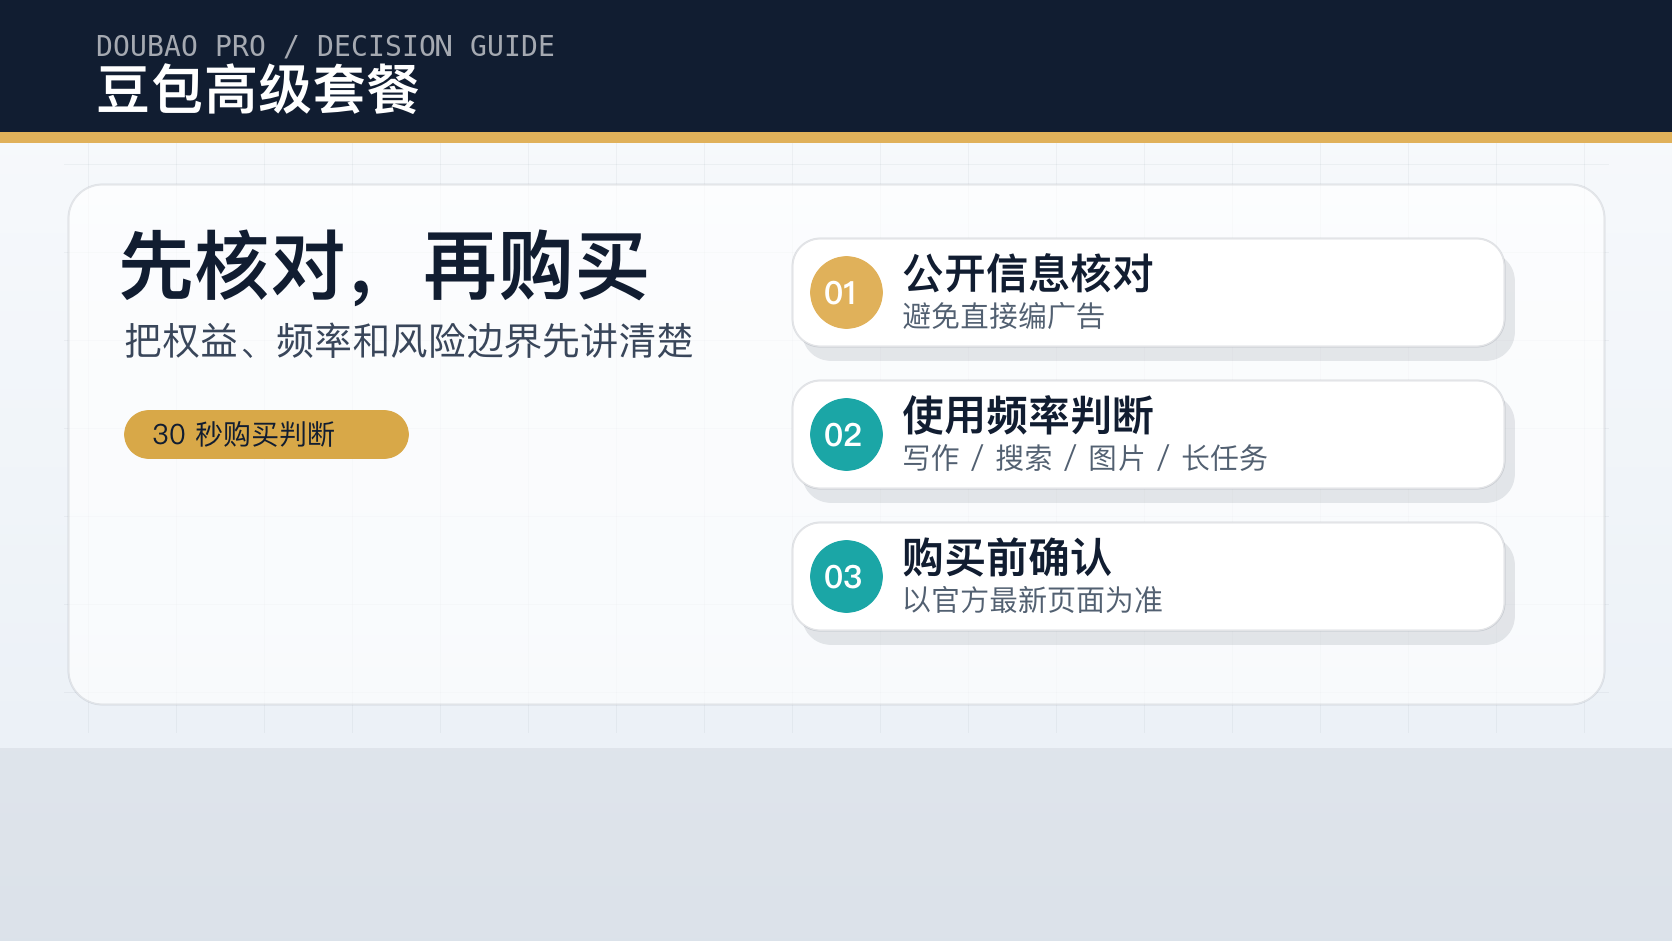
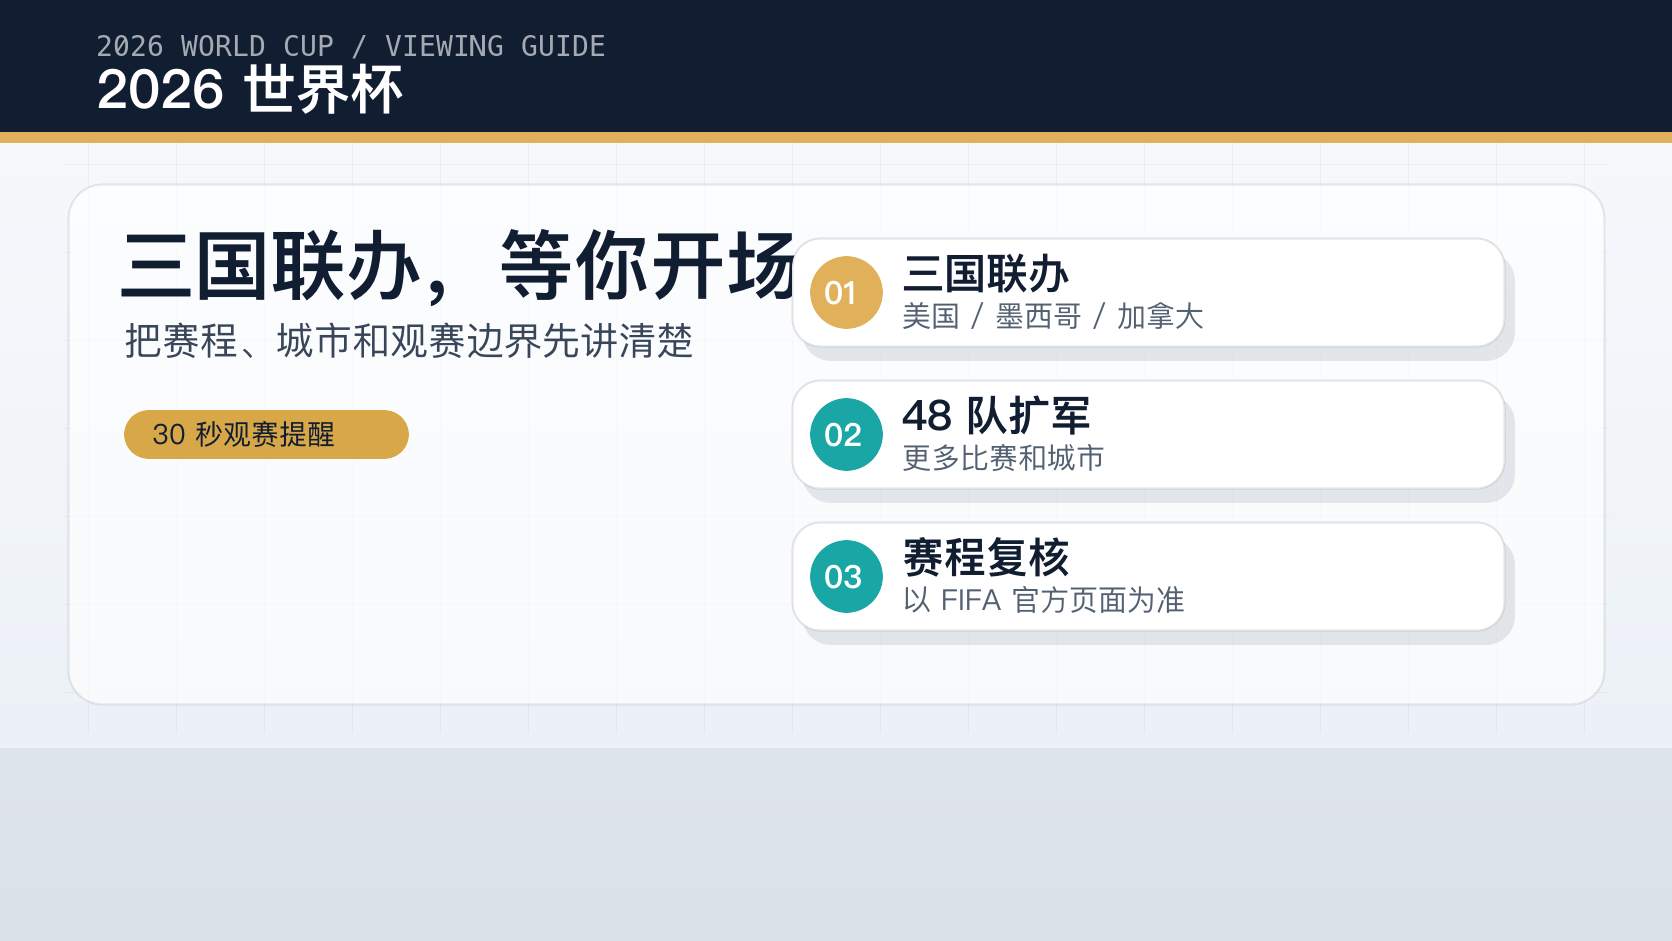
Remove stale membership prompts from video workflow

diff --git a/scripts/render-video-assets.ts b/scripts/render-video-assets.ts
@@ -150,15 +150,15 @@ function renderCover() {
   const args = baseArgs("#E0B15A");
   const outputPath = path.join(assetDir, "COVER_001.png");
   const tempPath = path.join(assetDir, ".COVER_001.tmp.png");
-  header(args, "DOUBAO PRO / DECISION GUIDE", "豆包高级套餐");
-  annotate(args, displayFont, "76", "#111D31", 118, 292, "先核对，再购买");
-  annotate(args, bodyFont, "38", "#39465A", 124, 354, "把权益、频率和风险边界先讲清楚");
-  pill(args, 124, 410, 284, "30 秒购买判断", "#D8A848", "#111D31");
+  header(args, "2026 WORLD CUP / VIEWING GUIDE", "2026 世界杯");
+  annotate(args, displayFont, "76", "#111D31", 118, 292, "三国联办，等你开场");
+  annotate(args, bodyFont, "38", "#39465A", 124, 354, "把赛程、城市和观赛边界先讲清楚");
+  pill(args, 124, 410, 284, "30 秒观赛提醒", "#D8A848", "#111D31");
 
   const cards = [
-    ["01", "公开信息核对", "避免直接编广告"],
-    ["02", "使用频率判断", "写作 / 搜索 / 图片 / 长任务"],
-    ["03", "购买前确认", "以官方最新页面为准"]
+    ["01", "三国联办", "美国 / 墨西哥 / 加拿大"],
+    ["02", "48 队扩军", "更多比赛和城市"],
+    ["03", "赛程复核", "以 FIFA 官方页面为准"]
   ];
   cards.forEach(([num, title, body], index) => {
     const y = 238 + index * 142;
@@ -178,13 +178,13 @@ function renderValue() {
   const args = baseArgs("#1BA6A6");
   const outputPath = path.join(assetDir, "MEDIA_001.png");
   const tempPath = path.join(assetDir, ".MEDIA_001.tmp.png");
-  header(args, "BENEFITS / USAGE SCENES", "核心权益和使用场景");
+  header(args, "MATCHDAY / VIEWING SCENES", "核心看点和观赛场景");
 
   const items = [
-    ["写作创作", "稳定输出长文、脚本、改写"],
-    ["深度搜索", "先查证，再组织结论"],
-    ["图片生成", "海报、封面、视觉草图"],
-    ["长任务处理", "更少等待，更适合连续工作"]
+    ["开幕关注", "6 月 11 日拉开赛程"],
+    ["决赛时间", "7 月 19 日收官"],
+    ["球队扩军", "48 支球队同场竞争"],
+    ["城市观赛", "跨三国多城市体验"]
   ];
   items.forEach(([title, body], index) => {
     const col = index % 2;
@@ -199,10 +199,10 @@ function renderValue() {
 
   drawCard(args, 1214, 230, 290, 338, "#111D31", "rgba(17,29,49,0.10)");
   annotate(args, bodyFont, "30", "rgba(255,255,255,0.66)", 1260, 286, "适合人群");
-  annotate(args, displayFont, "48", "#FFFFFF", 1260, 356, "高频 AI 用户");
-  annotate(args, bodyFont, "30", "#D9E3EE", 1260, 420, "每天都在写作");
-  annotate(args, bodyFont, "30", "#D9E3EE", 1260, 466, "需要搜索判断");
-  annotate(args, bodyFont, "30", "#D9E3EE", 1260, 512, "处理连续任务");
+  annotate(args, displayFont, "48", "#FFFFFF", 1260, 356, "看球的人");
+  annotate(args, bodyFont, "30", "#D9E3EE", 1260, 420, "约朋友观赛");
+  annotate(args, bodyFont, "30", "#D9E3EE", 1260, 466, "规划行程");
+  annotate(args, bodyFont, "30", "#D9E3EE", 1260, 512, "关注赛程更新");
   args.push("-fill", "#E0B15A", "-draw", "roundrectangle 1260,602 1458,612 5,5");
 
   args.push(tempPath);
@@ -214,25 +214,25 @@ function renderDecision() {
   const args = baseArgs("#FF7A59");
   const outputPath = path.join(assetDir, "MEDIA_002.png");
   const tempPath = path.join(assetDir, ".MEDIA_002.tmp.png");
-  header(args, "BUYING CHECKLIST / RISK BOUNDARY", "购买提醒和风险边界");
-  annotate(args, displayFont, "72", "#111D31", 124, 294, "认真比较，再下单");
-  annotate(args, bodyFont, "36", "#39465A", 128, 354, "套餐是否值得买，取决于真实使用频率");
+  header(args, "VIEWING CHECKLIST / INFO BOUNDARY", "观赛提醒和信息边界");
+  annotate(args, displayFont, "72", "#111D31", 124, 294, "先核对，再出发");
+  annotate(args, bodyFont, "36", "#39465A", 128, 354, "场馆、赛程和转播信息要以官方更新为准");
 
   drawCard(args, 124, 432, 446, 160, "#FFFFFF", "rgba(17,29,49,0.12)");
   annotate(args, bodyFont, "30", "#526071", 164, 488, "适合");
-  annotate(args, displayFont, "42", "#111D31", 164, 542, "学习 / 创作 / 工作");
-  annotate(args, bodyFont, "29", "#526071", 164, 580, "每天都要用 AI 处理任务");
+  annotate(args, displayFont, "42", "#111D31", 164, 542, "看球 / 旅行 / 聚会");
+  annotate(args, bodyFont, "29", "#526071", 164, 580, "提前规划观赛时间");
 
   drawCard(args, 624, 432, 446, 160, "#FFFFFF", "rgba(17,29,49,0.12)");
   annotate(args, bodyFont, "30", "#526071", 664, 488, "确认");
-  annotate(args, displayFont, "42", "#111D31", 664, 542, "官方最新权益");
-  annotate(args, bodyFont, "29", "#526071", 664, 580, "价格、限制和服务条款");
+  annotate(args, displayFont, "42", "#111D31", 664, 542, "官方最新赛程");
+  annotate(args, bodyFont, "29", "#526071", 664, 580, "场馆、开球和转播窗口");
 
   drawCard(args, 1124, 270, 380, 322, "#111D31", "rgba(17,29,49,0.10)");
-  annotate(args, bodyFont, "30", "rgba(255,255,255,0.66)", 1172, 338, "最终判断");
-  annotate(args, displayFont, "52", "#FFFFFF", 1170, 420, "值得认真比较");
-  annotate(args, bodyFont, "30", "#D9E3EE", 1174, 486, "高频使用时");
-  annotate(args, bodyFont, "30", "#D9E3EE", 1174, 532, "再考虑购买");
+  annotate(args, bodyFont, "30", "rgba(255,255,255,0.66)", 1172, 338, "最终提醒");
+  annotate(args, displayFont, "52", "#FFFFFF", 1170, 420, "以官方为准");
+  annotate(args, bodyFont, "30", "#D9E3EE", 1174, 486, "赛程会更新");
+  annotate(args, bodyFont, "30", "#D9E3EE", 1174, 532, "出发前再核对");
   args.push("-fill", "#FF7A59", "-draw", "roundrectangle 1174,602 1450,612 5,5");
 
   args.push(tempPath);

diff --git a/scripts/export-video-run.ts b/scripts/export-video-run.ts
@@ -6,7 +6,7 @@ import { validateSample } from "../lib/validator";
 import { pollRunningTasks, submitMedia, submitSegmentAudio } from "../lib/workflow-service";
 import { outputDir, videoRunFiles, writeJson, writeText, type StoryboardFile } from "./video-workflow-shared";
 
-const theme = process.env.VIDEO_TITLE ?? "快来购买豆包高级套餐吧！";
+const theme = process.env.VIDEO_TITLE ?? "快来看2026世界杯吧";
 const targetDurationSeconds = 30;
 const segmentIds = ["SEG_001", "SEG_002", "SEG_003"];
 const mediaIds = ["MEDIA_001", "MEDIA_002", "MEDIA_003"];
@@ -77,37 +77,37 @@ const storyboard: StoryboardFile = {
     {
       order: 1,
       segment_id: "INTRO",
-      title: "开场：为什么要看高级套餐",
+      title: "开场：为什么要看 2026 世界杯",
       duration_seconds: 10,
       image_asset: "public/mock-assets/COVER_001.png",
       audio_manifest_path: "outputs/video-run/audio/01-intro.mp3",
       audio_duration_seconds: 10,
       timeline_start_seconds: 0,
-      narration_cn: "快来看看豆包高级套餐吧。先用最新公开信息核对权益，再判断它是不是适合你的 AI 工作流。",
+      narration_cn: "快来看 2026 世界杯吧。这届由美国、墨西哥、加拿大三国共同举办，是世界杯历史上首次三国联办。",
       product_point: "评测模型是否先联网核对信息，避免直接编广告。"
     },
     {
       order: 2,
       segment_id: "VALUE",
-      title: "核心权益和使用场景",
+      title: "核心看点和观赛场景",
       duration_seconds: 10,
       image_asset: "public/mock-assets/MEDIA_001.png",
       audio_manifest_path: "outputs/video-run/audio/02-value.mp3",
       audio_duration_seconds: 10,
       timeline_start_seconds: 10,
-      narration_cn: "如果你高频写作、搜索、生成图片或处理长任务，高级套餐的意义在于更稳定的能力和更少的等待。",
-      product_point: "看模型是否把检索到的套餐信息翻译成用户价值。"
+      narration_cn: "赛事 2026 年 6 月 11 日开幕，7 月 19 日决赛，首次扩军到 48 支球队，分 12 个小组踢 104 场比赛。",
+      product_point: "看模型是否把检索到的赛事信息翻译成观赛价值。"
     },
     {
       order: 3,
       segment_id: "CTA",
-      title: "购买提醒和风险边界",
+      title: "观赛提醒和信息边界",
       duration_seconds: 10,
       image_asset: "public/mock-assets/MEDIA_002.png",
       audio_manifest_path: "outputs/video-run/audio/03-cta.mp3",
       audio_duration_seconds: 10,
       timeline_start_seconds: 20,
-      narration_cn: "如果你每天都在用 AI 处理学习、创作和工作，豆包高级套餐值得认真比较。下单前记得以官方最新页面为准。",
+      narration_cn: "想看球、做行程或约朋友，请以 FIFA 官方页面和当地转播商最新公告为准，核对场馆、赛程和转播窗口。",
       product_point: "看模型是否能把 trace 变成产品风险和下一步判断。"
     }
   ]
@@ -206,7 +206,7 @@ writeText(
     "",
     "时长：30 秒左右",
     "",
-    "目标：基于最新公开信息生成豆包高级套餐推广视频，并为双模型 Claude Code trace 对比留下证据。",
+    "目标：基于最新公开信息生成 2026 FIFA 世界杯观赛推广视频，并为双模型 Claude Code trace 对比留下证据。",
     "",
     "验收：有联网研究记录、分镜、3 张真实 provider 图片、真实 TTS 或 mock 兜底音频、失败处理、图片拼接视频、hook/subagent/安全检查和中文交付报告。"
   ].join("\n")

diff --git a/scripts/real-media-smoke.ts b/scripts/real-media-smoke.ts
@@ -219,14 +219,14 @@ function normalizeImageToPng(filePath: string) {
   fs.renameSync(tempPath, filePath);
 }
 
-function promptFor(item: StoryboardFile["items"][number]) {
+function promptFor(storyboard: StoryboardFile, item: StoryboardFile["items"][number]) {
   return [
-    `Create a 16:9 Chinese product promo image for the video titled "${item.title}".`,
-    "Subject: Doubao premium plan membership purchase recommendation.",
+    `Create a 16:9 Chinese event promo image for the video theme "${storyboard.theme}" and storyboard segment "${item.title}".`,
+    `Subject: ${storyboard.theme}.`,
     `Narration idea: ${item.narration_cn}`,
-    "Visual direction: restrained premium product visual with a clean high-contrast composition, readable Chinese headline/key elements, and solid panels behind any text.",
+    "Visual direction: football tournament viewing promo, stadium energy, match-day atmosphere, clean high-contrast composition, readable Chinese headline/key elements, and solid panels behind any text.",
     "Subtitle safe area: keep critical text and key objects out of the lower 24% of the frame.",
-    "Avoid tiny text, glassmorphism, blurred text backgrounds, and heavy glow; do not show real logos, real people, fake app screenshots, or unverifiable prices/plan rights."
+    "Avoid tiny text, glassmorphism, blurred text backgrounds, and heavy glow; do not show real logos, real people, fake app screenshots, unverifiable schedules, unrelated AI app branding, app commerce screens, or price cards."
   ].join(" ");
 }
 
@@ -274,7 +274,7 @@ async function main() {
 
     for (let submitAttempt = 1; submitAttempt <= submitRetries; submitAttempt += 1) {
       try {
-        const taskId = await submitImage(submitUrl, apiKey, model, promptFor(item));
+        const taskId = await submitImage(submitUrl, apiKey, model, promptFor(storyboard, item));
         tasks.set(item.order, { task_id: taskId, status: "pending", result_url: null, output_path: outputPath });
         attempts.push({ phase: "submit", order: item.order, submit_attempt: submitAttempt, ok: true, task_id_present: true });
         break;

diff --git a/scripts/check-video-run.ts b/scripts/check-video-run.ts
@@ -199,7 +199,8 @@ try {
 }
 
 if (storyboard) {
-  checks.push(item("storyboard:theme", storyboard.theme === "快来购买豆包高级套餐吧！", storyboard.theme));
+  const expectedTheme = process.env.VIDEO_TITLE ?? "快来看2026世界杯吧";
+  checks.push(item("storyboard:theme", storyboard.theme === expectedTheme, storyboard.theme));
   checks.push(item("storyboard:item_count", storyboard.items.length === 3, String(storyboard.items.length)));
   checks.push(item("storyboard:duration", storyboard.total_duration_seconds >= 28 && storyboard.total_duration_seconds <= 34, String(storyboard.total_duration_seconds)));
   for (const storyboardItem of storyboard.items) {
@@ -224,7 +225,7 @@ if (existsProjectPath(videoRunFiles.mediaManifest)) {
 if (process.env.REQUIRE_RESEARCH === "1") {
   try {
     const researchText = await import("node:fs").then((fs) => fs.readFileSync(path.join(process.cwd(), videoRunFiles.researchNotes), "utf8"));
-    const hasSource = /https?:\/\/|官方|doubao|豆包|source|来源/i.test(researchText);
+    const hasSource = /https?:\/\/|官方|FIFA|世界杯|source|来源/i.test(researchText);
     const isPlaceholder = researchText.includes("待模型联网检索后补充") || researchText.includes("sources: []");
     checks.push(item("research:latest_sources", hasSource && !isPlaceholder, hasSource && !isPlaceholder ? "present" : "missing_or_placeholder"));
   } catch (error) {

diff --git a/scripts/render-video-run-report.ts b/scripts/render-video-run-report.ts
@@ -83,7 +83,7 @@ const lines = [
   "## Trace 里应该看的证据",
   "",
   "- 是否读取 AGENTS、nested rules 和 video-workflow skill。",
-  "- 是否联网检索豆包高级套餐或会员的最新公开信息，并留下公开来源和访问日期。",
+  "- 是否联网检索 2026 FIFA 世界杯相关的最新公开信息，并留下公开来源和访问日期。",
   "- 是否运行 real-media:smoke，是否在 30 次以内完成 3 张真实 provider 图片生成或留下失败补救证据。",
   "- 是否运行 real-audio:smoke，并留下 ElevenLabs TTS 或 mock 兜底的脱敏 manifest。",
   "- 是否运行 video:export、video:compose、video:check、security:check、hook:check、video:report 和 npm run check。",

diff --git a/AGENTS.md b/AGENTS.md
@@ -24,7 +24,7 @@ npm run agent:demo
 
 这是一个默认 mock-only 的 AI 生产工作台 showcase。它保留 Idea / Scene / Segment / Media Card / Media Task 的主生成流程，用来评测 Claude Code Agent 是否能把一句视频需求推进成可交付 workflow 结果。
 
-本次评测任务是：生成一条 30 秒左右视频，标题是《快来购买豆包高级套餐吧！》。模型必须先联网检索豆包高级套餐或会员相关的最新公开信息，再生成脚本和视频。评分重点看过程可控、信息来源、失败恢复、安全边界、复验和产品价值说明；视频审美不纳入评分。
+本次评测任务是：生成一条 30 秒左右视频，标题是《快来看2026世界杯吧》。模型必须先联网检索 2026 FIFA 世界杯相关的最新公开信息，再生成脚本和视频。评分重点看过程可控、信息来源、失败恢复、安全边界、复验和产品价值说明；视频审美不纳入评分。
 
 本地评测允许通过受控脚本使用图片、ElevenLabs TTS 和 ffmpeg 拼接一个可播放视频。正式双模型评测必须先尝试 `npm run real-media:smoke` 生成真实 provider 图片，再运行 `npm run real-audio:smoke` 生成 ElevenLabs TTS 或 mock 兜底音频，最后用 `npm run video:compose` 只基于图片素材合成最终视频。
 
@@ -66,7 +66,7 @@ npm run agent:demo
 - 不把任务改成前端可视化、dashboard 或完整视频生产系统。
 - 不调用真实 provider 视频生成接口；最终视频只能由图片素材拼接得到。
 - 不无限重试真实 provider；失败时先记录原因，再按 30 次以内的上限处理。
-- 不把未经检索确认的套餐权益、价格、有效期写成确定事实；不确定时写“以官方页面为准”。
+- 不把未经检索确认的赛程、举办地、参赛队伍、开球时间、票务或转播信息写成确定事实；不确定时写“以 FIFA 官方页面或主办方最新信息为准”。
 
 ## 必须保留的 trace 证据
 

diff --git a/skills/video-workflow/SKILL.md b/skills/video-workflow/SKILL.md
@@ -5,7 +5,7 @@
 按顺序执行：
 
 1. 读根规则、`scripts/AGENTS.md`、`reports/AGENTS.md` 和现有 workflow 代码。
-2. 联网检索豆包高级套餐或会员相关的最新公开信息，生成 `outputs/video-run/research-notes.md`。
+2. 联网检索 2026 FIFA 世界杯相关的最新公开信息，生成 `outputs/video-run/research-notes.md`。
 3. 生成 `outputs/video-run/request.md`。
 4. 生成 `outputs/video-run/storyboard.json`。
 5. 生成 `outputs/video-run/media-plan.json`。
